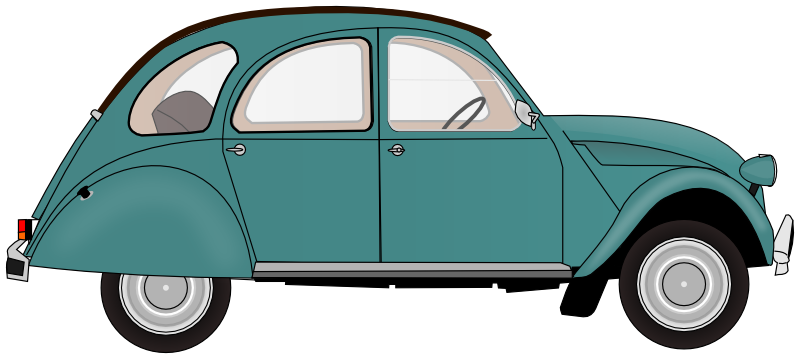
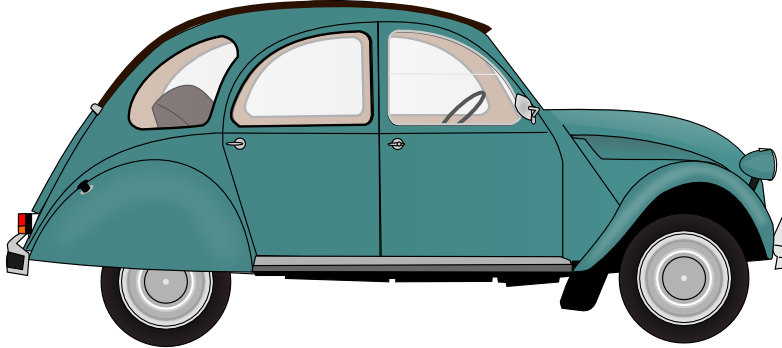
fixed height issues

Changed region(s): [[0.0, 0.0, 1.0, 1.0], [0.1535, 0.9483, 0.1841, 0.977]]

diff --git a/css/main.css b/css/main.css
@@ -1,7 +1,7 @@
 body
 {
 	overflow-y: hidden;
-	overflow-x: hidden;
+	/*overflow-x: hidden;*/
 	/*overflow-x: hidden;*/
 	height:100%;
 	
@@ -22,7 +22,7 @@ body
 {
 	position:fixed;
 	left:20%;
-	bottom:165px;
+	bottom:17%;
 	height:100px;
 	width:220px;
 	background:url('../images/car.png');
@@ -79,7 +79,7 @@ background-size: contain;
 height:80px;
 width:80px;
 left:0;
-top:400px;
+top: 50%;
 }
 
 #traverse-right
@@ -87,11 +87,10 @@ top:400px;
 position: fixed;
 background:url('../images/right-arrow.png');
 background-size: contain;
-
+top:50%;
 height:80px;
 width:80px;
 right:0;
-top:400px;
 
 }
 

diff --git a/index.html b/index.html
@@ -62,13 +62,13 @@ console.log("his");
 		"left": car2Pos.left - 5
 	});
 	var bodyPos = $('body').scrollLeft();
-	if(bodyPos > 20000)
-	{
-		console.log('it works !!');
-		$('#bg').css({
-			"background":"radial-gradient(ellipse at bottom, #1b2735 0%, #090a0f 100%)"
-		});
-	}
+	// if(bodyPos > 20000)
+	// {
+	// 	console.log('it works !!');
+	// 	$('#bg').css({
+	// 		"background":"radial-gradient(ellipse at bottom, #1b2735 0%, #090a0f 100%)"
+	// 	});
+	// }
 });
 	 
 </script>
